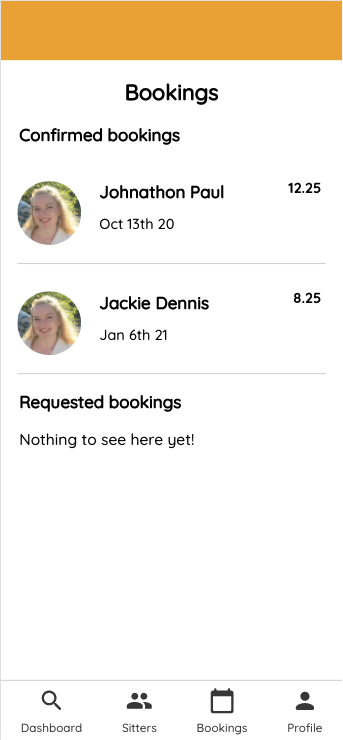
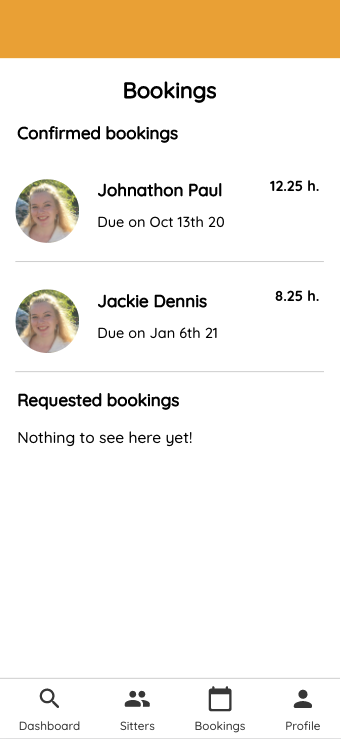
style(server): profile changed

diff --git a/src/components/ProfileComponent/ProfileComponent.tsx b/src/components/ProfileComponent/ProfileComponent.tsx
@@ -1,4 +1,7 @@
 import React, { useEffect, useState } from 'react';
+import EmailRoundedIcon from '@material-ui/icons/EmailRounded';
+import MoreHorizRoundedIcon from '@material-ui/icons/MoreHorizRounded';
+import VerifiedUserRoundedIcon from '@material-ui/icons/VerifiedUserRounded';
 
 import './ProfileComponent.scss';
 import { IUser } from '../../interfaces/interfaces';
@@ -18,11 +21,24 @@ function Profilecomponent() {
     <div className='profile'>
       <div className='card'>
         <img src={profilepic} alt={user?.fullName} />
+        <div className='actions'>
+          <div className='action'>
+            <EmailRoundedIcon />
+            Message
+          </div>
+          <div className='action'>
+            <MoreHorizRoundedIcon />
+            Actions
+          </div>
+        </div>
         <h2>{user?.fullName}</h2>
         <p>
           {user?.address?.postcode} {user?.address?.town}
         </p>
-        <p>{user?.biography}</p>
+        <p>{user?.email}</p>
+        <div className='biography'>
+          <p>{user?.biography}</p>
+        </div>
       </div>
     </div>
   );

diff --git a/src/components/ProfileComponent/ProfileComponent.scss b/src/components/ProfileComponent/ProfileComponent.scss
@@ -1,3 +1,5 @@
+@import '../../App.scss';
+
 .profile {
   display: flex;
   width: 100%;
@@ -12,10 +14,47 @@
       margin-top: 10px;
     }
 
+    p {
+      margin: 5px;
+    }
+
+    .actions {
+      display: flex;
+      justify-content: center;
+      align-items: center;
+      width: 100%;
+    }
+
+    .action {
+      display: flex;
+      flex-direction: column;
+      align-items: center;
+      justify-content: center;
+      border-radius: 20px;
+      margin: 20px;
+      width: 40%;
+      height: 70px;
+      color: white;
+      background-color: opacityrgba(rgbbubblegreen, 0.75);
+    }
+
+    .biography {
+      display: flex;
+      margin-top: 10px;
+      justify-content: center;
+      align-items: center;
+      min-height: 50px;
+      border-radius: 20px;
+      width: 80%;
+      background-color: opacityrgba(rgbbubblepink, 0.75);
+      color: white;
+    }
+
     display: flex;
     width: 100%;
     justify-content: center;
     align-items: center;
     flex-direction: column;
+    border: none;
   }
 }

diff --git a/src/components/BookingsComponent/BookingCardComponent.tsx b/src/components/BookingsComponent/BookingCardComponent.tsx
@@ -15,10 +15,10 @@ function BookingCardComponent({ booking }: IProps) {
       <div className='body'>
         <div className='header'>
           <h3>{booking.otherUserFullName}</h3>
-          <p className='duration'>{booking.scheduledDuration}</p>
+          <p className='duration'>{booking.scheduledDuration} h.</p>
         </div>
         <p className='mt-20'>
-          {moment(booking.scheduledStart).format('MMM Do YY')}
+          Due on {moment(booking.scheduledStart).format('MMM Do YY')}
         </p>
       </div>
     </div>
